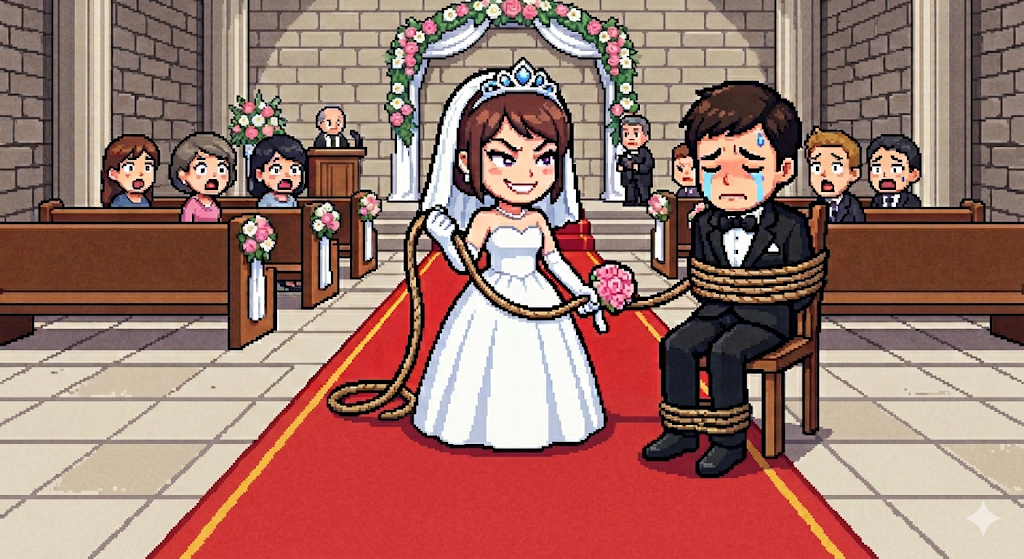
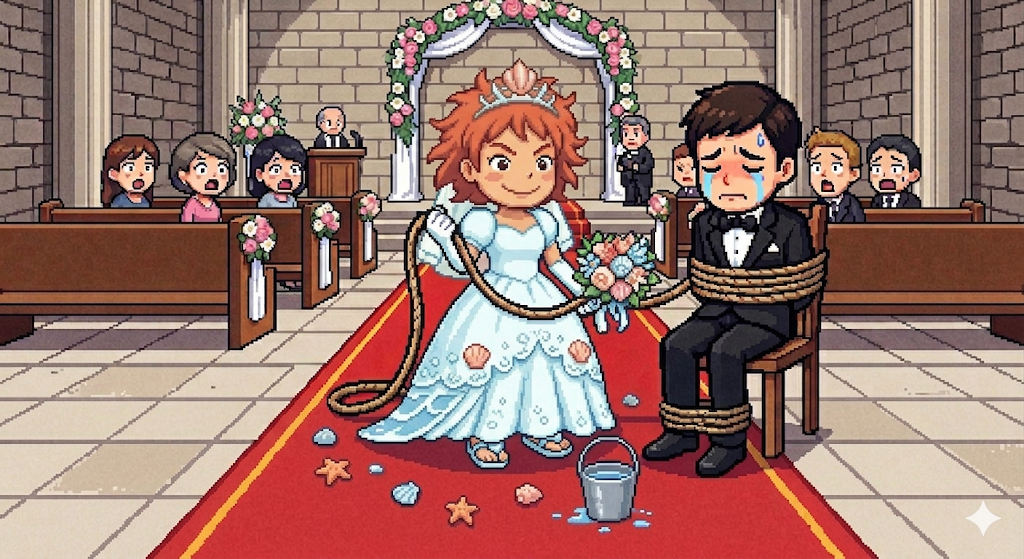
feat(wedding-runner): 아이템/장애물 스프라이트 통합 + 신랑 도무송 + 게임오버 씬 교체
- 아이템 시트에서 하트/반지/꽃다발/샴페인/케이크 + 웅덩이/의자 추출 후 배경 투명화 처리
- Graphics 기반 플레이스홀더 도형을 실제 스프라이트 이미지로 교체 (ITEM_TEXTURE / OBSTACLE_TEXTURE 매핑)
- 신랑 캐릭터 배경 그리드 제거 (floodfill + 가장 큰 연결 성분)
- 게임오버 일러스트를 신부가 케이크를 든 충돌 장면으로 교체

diff --git a/src/components/wedding-runner/PhaserGame.tsx b/src/components/wedding-runner/PhaserGame.tsx
@@ -4,7 +4,7 @@ import { useEffect, useRef } from "react";
 import type Phaser from "phaser";
 import { GAME_DURATION_SEC } from "@/lib/wedding-constants";
 
-// 외부 IP·스프라이트 없이 Graphics/Rectangle 으로 도트 풍을 연출
+// 스테이지 배경 · 캐릭터 · 아이템/장애물은 모두 마스터 제공 오리지널 도트 에셋 사용
 // (포켓몬 IP 사용 금지 원칙 — CC0/오리지널만)
 
 export type GameResult = {
@@ -23,13 +23,6 @@ const PALETTE = {
   ink: 0x3a2430,
   groom: 0x3a2430,
   bride: 0xc85476,
-  heart: 0xe25c7f,
-  ring: 0xf7c95c,
-  bouquet: 0xe8a0b5,
-  champagne: 0xffe27a,
-  glass: 0xb5dbe8,
-  flower: 0xd65a8a,
-  cake: 0xffffff,
 };
 
 const VIEW_W = 480;
@@ -58,8 +51,8 @@ type RunnerState = {
   playerW: number;
   playerH: number;
   bg: Phaser.GameObjects.TileSprite;
-  itemsPool: Array<{ rect: Phaser.GameObjects.Graphics; kind: ItemKind; x: number; y: number; alive: boolean; size: number }>;
-  obstaclesPool: Array<{ rect: Phaser.GameObjects.Graphics; kind: ObstacleKind; x: number; y: number; alive: boolean; w: number; h: number }>;
+  itemsPool: Array<{ sprite: Phaser.GameObjects.Image; kind: ItemKind; x: number; y: number; alive: boolean; w: number; h: number }>;
+  obstaclesPool: Array<{ sprite: Phaser.GameObjects.Image; kind: ObstacleKind; x: number; y: number; alive: boolean; w: number; h: number }>;
   groundTiles: Phaser.GameObjects.Rectangle[];
   parallaxLayers: Phaser.GameObjects.Rectangle[][];
   hudScore: Phaser.GameObjects.Text;
@@ -88,62 +81,31 @@ const GRAVITY = 2200;
 const JUMP_V = -760;
 const SLIDE_DURATION = 500;
 
-function drawItem(g: Phaser.GameObjects.Graphics, kind: ItemKind, size: number) {
-  g.clear();
-  const c =
-    kind === "heart" ? PALETTE.heart :
-    kind === "ring" ? PALETTE.ring :
-    kind === "bouquet" ? PALETTE.bouquet :
-    PALETTE.champagne;
-  g.fillStyle(c, 1);
-  if (kind === "ring") {
-    g.lineStyle(4, c, 1);
-    g.strokeCircle(0, 0, size);
-    g.lineStyle(2, PALETTE.ink, 1);
-    g.strokeCircle(0, 0, size);
-  } else if (kind === "heart") {
-    g.fillRect(-size / 2, -size / 2, size, size);
-    g.fillRect(-size, -size / 2, size / 2, size / 2);
-    g.fillRect(size / 2, -size / 2, size / 2, size / 2);
-    g.lineStyle(2, PALETTE.ink, 1);
-    g.strokeRect(-size / 2, -size / 2, size, size);
-  } else if (kind === "bouquet") {
-    g.fillCircle(0, -4, size * 0.8);
-    g.fillStyle(0x4a8b5e, 1);
-    g.fillRect(-2, 0, 4, size);
-    g.lineStyle(2, PALETTE.ink, 1);
-    g.strokeCircle(0, -4, size * 0.8);
-  } else {
-    g.fillRect(-size / 3, -size, (size / 3) * 2, size * 2);
-    g.fillStyle(PALETTE.ink, 1);
-    g.fillRect(-size / 4, -size - 6, size / 2, 6);
-  }
-}
+// 아이템/장애물 내부 키 → 실제 에셋 파일
+const ITEM_TEXTURE: Record<ItemKind, string> = {
+  heart: "spr-heart",
+  ring: "spr-ring",
+  bouquet: "spr-bouquet",
+  champagne: "spr-champagne",
+};
+const OBSTACLE_TEXTURE: Record<ObstacleKind, string> = {
+  glass: "spr-puddle",
+  flower: "spr-chair",
+  cake: "spr-cake",
+};
 
-function drawObstacle(g: Phaser.GameObjects.Graphics, kind: ObstacleKind, w: number, h: number) {
-  g.clear();
-  if (kind === "glass") {
-    g.fillStyle(PALETTE.glass, 1);
-    g.fillTriangle(-w / 2, -h / 2, w / 2, -h / 2, 0, h / 2);
-    g.lineStyle(2, PALETTE.ink, 1);
-    g.strokeTriangle(-w / 2, -h / 2, w / 2, -h / 2, 0, h / 2);
-  } else if (kind === "flower") {
-    g.fillStyle(PALETTE.flower, 1);
-    g.fillRect(-w / 2, -h / 2, w, h);
-    g.lineStyle(2, PALETTE.ink, 1);
-    g.strokeRect(-w / 2, -h / 2, w, h);
-    g.fillStyle(PALETTE.ink, 1);
-    g.fillRect(-8, -h / 2 + 10, 4, 4);
-    g.fillRect(4, -h / 2 + 10, 4, 4);
-  } else {
-    g.fillStyle(PALETTE.cake, 1);
-    g.fillRect(-w / 2, -h / 2, w, h);
-    g.fillStyle(PALETTE.bride, 1);
-    g.fillRect(-w / 2, -h / 2, w, 10);
-    g.lineStyle(2, PALETTE.ink, 1);
-    g.strokeRect(-w / 2, -h / 2, w, h);
-  }
-}
+// 월드 기준 표시 높이 (px). 너비는 원본 비율 유지
+const ITEM_HEIGHT: Record<ItemKind, number> = {
+  heart: 40,
+  ring: 40,
+  bouquet: 52,
+  champagne: 48,
+};
+const OBSTACLE_HEIGHT: Record<ObstacleKind, number> = {
+  glass: 36,
+  flower: 54,
+  cake: 56,
+};
 
 function intersects(
   ax: number, ay: number, aw: number, ah: number,
@@ -273,27 +235,27 @@ export default function PhaserGame({
         const kinds: ItemKind[] = ["heart", "heart", "heart", "ring", "bouquet", "champagne"];
         const kind = kinds[Math.floor(Math.random() * kinds.length)];
         const aerial = kind === "heart" || kind === "ring" || Math.random() < 0.4;
-        const y = aerial ? GROUND_Y - 90 - Math.random() * 80 : GROUND_Y - 20;
-        const size = kind === "bouquet" ? 22 : kind === "champagne" ? 20 : 16;
-        const g = scene.add.graphics();
-        drawItem(g, kind, size);
-        g.x = VIEW_W + 30;
-        g.y = y;
-        state.itemsPool!.push({ rect: g, kind, x: g.x, y: g.y, alive: true, size });
+        const targetH = ITEM_HEIGHT[kind];
+        const y = aerial ? GROUND_Y - 90 - Math.random() * 80 : GROUND_Y - targetH / 2;
+        const img = scene.add.image(VIEW_W + 30, y, ITEM_TEXTURE[kind]);
+        // 세로 기준 맞춤 — 원본 비율 유지
+        const scale = targetH / img.height;
+        img.setScale(scale);
+        const w = img.width * scale;
+        state.itemsPool!.push({ sprite: img, kind, x: img.x, y: img.y, alive: true, w, h: targetH });
       }
 
       function spawnObstacle(scene: Phaser.Scene) {
         const kinds: ObstacleKind[] = ["glass", "glass", "flower", "flower", "cake"];
         const kind = kinds[Math.floor(Math.random() * kinds.length)];
-        let w = 28, h = 36, y = GROUND_Y - 18;
-        if (kind === "flower") { w = 36; h = 48; y = GROUND_Y - 24; }
-        else if (kind === "cake") { w = 40; h = 52; y = GROUND_Y - 26; }
-        else { w = 28; h = 28; y = GROUND_Y - 14; }
-        const g = scene.add.graphics();
-        drawObstacle(g, kind, w, h);
-        g.x = VIEW_W + 30;
-        g.y = y;
-        state.obstaclesPool!.push({ rect: g, kind, x: g.x, y: g.y, alive: true, w, h });
+        const targetH = OBSTACLE_HEIGHT[kind];
+        // 바닥에 딱 붙게 배치
+        const y = GROUND_Y - targetH / 2 + 6;
+        const img = scene.add.image(VIEW_W + 30, y, OBSTACLE_TEXTURE[kind]);
+        const scale = targetH / img.height;
+        img.setScale(scale);
+        const w = img.width * scale;
+        state.obstaclesPool!.push({ sprite: img, kind, x: img.x, y: img.y, alive: true, w, h: targetH });
       }
 
       const sceneConfig: Phaser.Types.Scenes.SettingsConfig & {
@@ -310,6 +272,15 @@ export default function PhaserGame({
           this.load.image("game-over", "/wedding-runner/game-over.png");
           // 스테이지1 배경 (마스터 제공 · 가로 타일링)
           this.load.image("stage1-bg", "/wedding-runner/stage1-bg.png");
+          // 아이템 (점수 부스터)
+          this.load.image("spr-heart", "/wedding-runner/item-heart.png");
+          this.load.image("spr-ring", "/wedding-runner/item-ring.png");
+          this.load.image("spr-bouquet", "/wedding-runner/item-bouquet.png");
+          this.load.image("spr-champagne", "/wedding-runner/item-champagne.png");
+          // 장애물 (웅덩이 = glass 대체, 의자 = flower 대체, 케이크 = 게임오버)
+          this.load.image("spr-puddle", "/wedding-runner/obs-puddle.png");
+          this.load.image("spr-chair", "/wedding-runner/obs-chair.png");
+          this.load.image("spr-cake", "/wedding-runner/item-cake.png");
         },
         create(this: Phaser.Scene) {
           const scene = this;
@@ -453,11 +424,11 @@ export default function PhaserGame({
           for (const it of state.itemsPool!) {
             if (!it.alive) continue;
             it.x -= (speed * dt) / 1000;
-            it.rect.x = it.x;
-            if (it.x < -40) { it.alive = false; it.rect.destroy(); continue; }
-            if (intersects(PLAYER_X, state.player!.y, hitW, hitH, it.x, it.y, it.size * 2, it.size * 2)) {
+            it.sprite.x = it.x;
+            if (it.x < -60) { it.alive = false; it.sprite.destroy(); continue; }
+            if (intersects(PLAYER_X, state.player!.y, hitW, hitH, it.x, it.y, it.w, it.h)) {
               it.alive = false;
-              it.rect.destroy();
+              it.sprite.destroy();
               const gained = ITEM_SCORE[it.kind];
               state.scoreValue! += gained;
               state.itemScoreValue! += gained;
@@ -472,12 +443,12 @@ export default function PhaserGame({
           for (const ob of state.obstaclesPool!) {
             if (!ob.alive) continue;
             ob.x -= (speed * dt) / 1000;
-            ob.rect.x = ob.x;
-            if (ob.x < -50) { ob.alive = false; ob.rect.destroy(); continue; }
+            ob.sprite.x = ob.x;
+            if (ob.x < -80) { ob.alive = false; ob.sprite.destroy(); continue; }
             const hit = intersects(PLAYER_X, state.player!.y, hitW, hitH, ob.x, ob.y, ob.w, ob.h);
             if (hit) {
               ob.alive = false;
-              ob.rect.destroy();
+              ob.sprite.destroy();
               const invincible = scene.time.now < (state.invincibleUntil ?? 0);
               if (ob.kind === "cake") {
                 if (invincible) continue;
